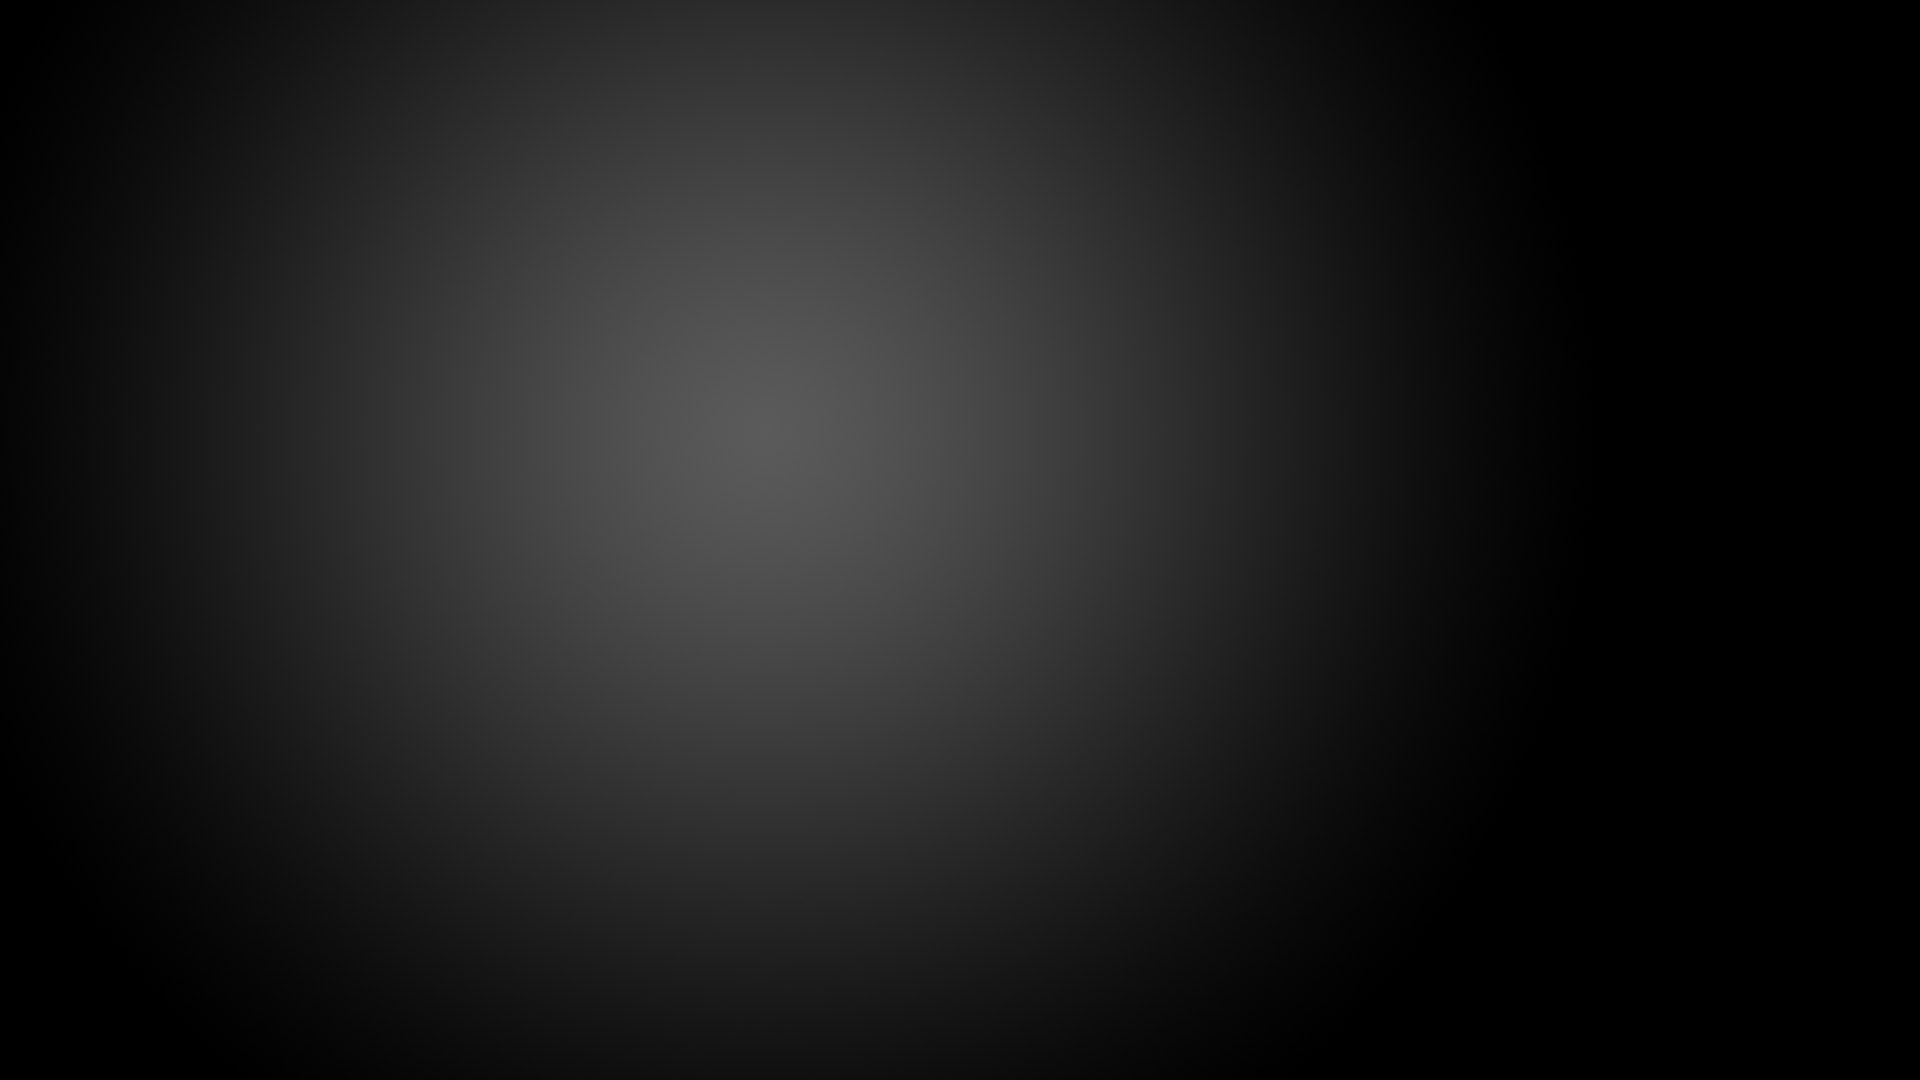
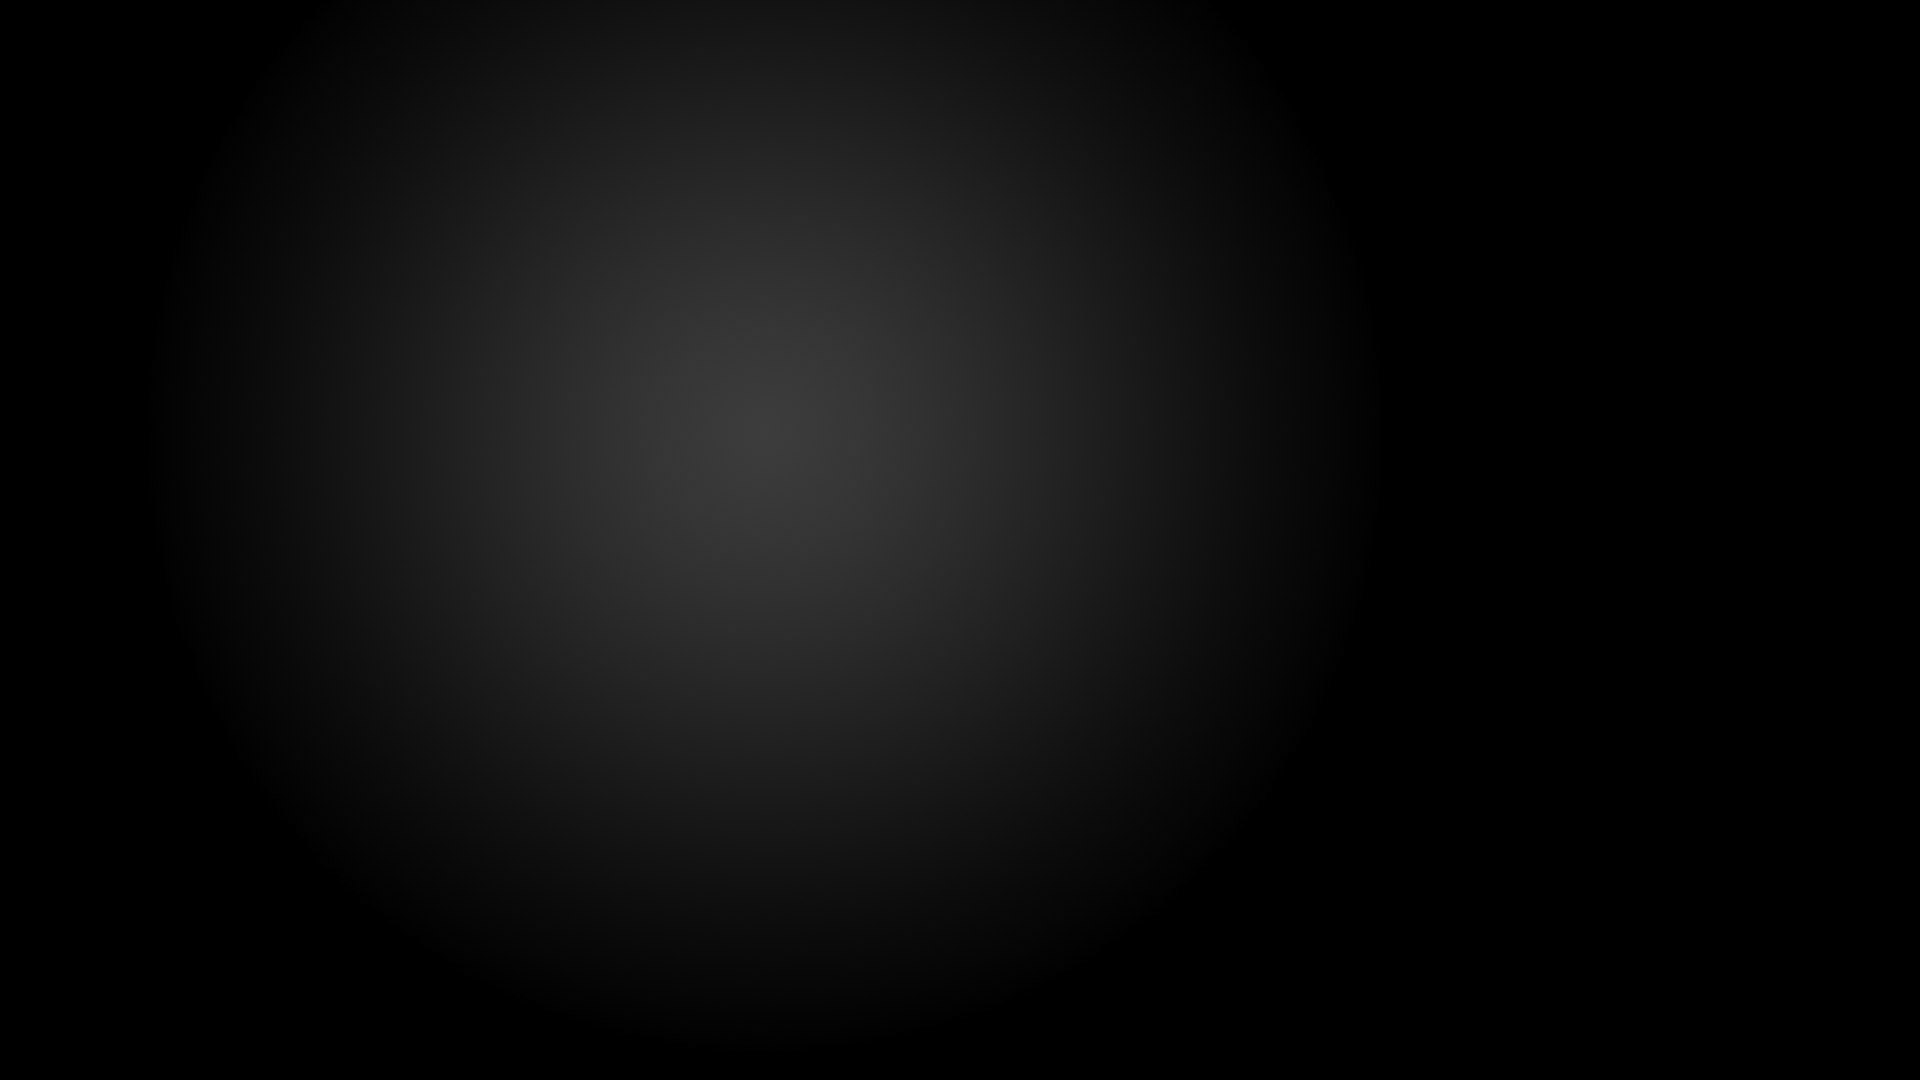
feat: support repeat setting with mpv player

Changed region(s): [[0.1562, 0.0, 0.625, 0.7944]]

diff --git a/index.js b/index.js
@@ -305,12 +305,15 @@ io.on('connection', function(socket) {
     if(!iTunesEnabled)
       return;
        
-    itunes.setRepeat(msg.repeat);
+    if(settings.mpv) {
+      mpv.setRepeat(msg.repeat);
+      state.repeat = mpv.repeat;
+      io.sockets.emit('state', state);
+    } else {
+      itunes.setRepeat(msg.repeat);
+    }
     if(settings.hqp) {
       hqp.repeat = msg.repeat;
-    }
-    if(settings.mpv) {
-      mpv.repeat = msg.repeat;
     }
   });
 
@@ -776,9 +779,10 @@ function getState() {
       rsp.sampleRate  = settings.hqp ? hqp.sampleRate : mpv.sampleRate;
       rsp.id_low      = settings.hqp ? hqp.id_low : mpv.id_low;
       rsp.id_high     = settings.hqp ? hqp.id_high : mpv.id_high;
+      rsp.repeat      = settings.hqp ? hqp.repeat : mpv.repeat;
     }
 
-    if(state.state != rsp.state || state.position != rsp.position || newPosSet) {
+    if(state.state != rsp.state || state.position != rsp.position || state.repeat != rsp.repeat || newPosSet) {
       const oldPos = state.position;      
       const oldVol = state.volume;
 
@@ -1042,7 +1046,7 @@ function setVolume(vol, force) {
     }
     io.sockets.emit('state', state);
     io.sockets.emit('volume', vol);
-    execFile('nircmdc.exe', ["setappvolume", "Shairport4wx64.exe", vol / 500], {}, function(err, stdout, stderr) {});
+    //execFile('nircmdc.exe', ["setappvolume", "Shairport4wx64.exe", vol / 500], {}, function(err, stdout, stderr) {});
     return;
   }
 
@@ -1242,7 +1246,12 @@ function checkAudioDevice() {
           });
 
           if(settings.startAlso)
-            exec('start /min "" "'+settings.startAlso+'"', {windowsHide: true}, function(err, stdout, stderr) {
+            exec(`start /min "" "${settings.startAlso.cmd}" ${settings.startAlso.args}`, {windowsHide: true}, function(err, stdout, stderr) {
+              if(err) console.error(`Error starting ${settings.startAlso}:`, err);
+            });
+          if(settings.startAlso2)
+            exec(`start /min "" "${settings.startAlso2.cmd}" ${settings.startAlso2.args}`, {windowsHide: true}, function(err, stdout, stderr) {
+              if(err) console.error(`Error starting ${settings.startAlso2}:`, err);
             });
 
           setTimeout(function(){
@@ -1333,11 +1342,13 @@ function checkAudioDevice() {
       console.log('close iTunes');
 			execFile('nircmdc.exe', ['win', 'close', 'class', 'iTunes'], {}, function(err, stdout, stderr) {});
 
-      if(settings.killAlso)
-        execFile('nircmdc.exe', ['killprocess', settings.killAlso], {}, function(err, stdout, stderr) {});
-
       mpv.quit();
       hqp.quit();
+
+      if(settings.killAlso)
+        execFile('nircmdc.exe', ['killprocess', settings.killAlso], {}, function(err, stdout, stderr) {});
+      if(settings.killAlso2)
+        execFile('nircmdc.exe', ['killprocess', settings.killAlso2], {}, function(err, stdout, stderr) {});
 
       continueAfterMute = false;
       audioDeviceState.state = newState;
@@ -1483,11 +1494,12 @@ function checkShairPort4W() {
     lastREPLAYGAIN_ALBUM_GAIN = undefined;
     
     if(settings.hqp) {
-      hqp.setSampleRate(44100);
+      hqp.setSampleRate(settings.shairportSamplerate);
       state.sampleRate = hqp.sampleRate;
       io.sockets.emit('state', state);
     } else if(settings.mpv) {
-      mpv.setSampleRate(44100);
+      mpv.stop();
+      mpv.setSampleRate(settings.shairportSamplerate);
       state.sampleRate = mpv.sampleRate;
       io.sockets.emit('state', state);
     }
@@ -1526,8 +1538,6 @@ function checkShairPort4W() {
     }
 
     lastAirPlaySongStamp = undefined;
-
-    console.log(`AirPlay stopped`);
 
     io.sockets.emit('track', {name: 0});
   }

diff --git a/mpv_player.js b/mpv_player.js
@@ -25,6 +25,23 @@ exports.mode = "";
 let idleState, changingSampleRate;
 
 //---------------------------------------------------------------------------------------
+exports.setRepeat = function(repeat) {
+  repeat = Number(repeat);
+  if(!Number.isInteger(repeat) || repeat < 0 || repeat > 2) {
+    return;
+  }
+
+  exports.repeat = repeat;
+  if(!mpvPlayer) {
+    return;
+  }
+
+  // 0 = off, 1 = repeat current track, 2 = repeat the active playlist.
+  mpvPlayer.setProperty('loop-file', repeat === 1 ? 'inf' : 'no');
+  mpvPlayer.setProperty('loop-playlist', repeat === 2 ? 'inf' : 'no');
+};
+
+//---------------------------------------------------------------------------------------
 function sleep(ms) {
   return new Promise((resolve, reject)=>{
 
@@ -290,14 +307,17 @@ exports.active = function() {
 
 //---------------------------------------------------------------------------------------
 exports.play = function() {
-  console.log("mpv play");
   mpvPlayer.resume();
 };
 
 //---------------------------------------------------------------------------------------
 exports.pause = function() {
-  console.log("mpv pause");
   mpvPlayer.pause();
+};
+
+//---------------------------------------------------------------------------------------
+exports.stop = function() {
+  mpvPlayer.stop();
 };
 
 //---------------------------------------------------------------------------------------

diff --git a/public/index.html b/public/index.html
@@ -11,7 +11,7 @@
     <link rel="apple-touch-startup-image" href="img/startup.png"   media="(device-width: 320px) and (device-height: 480px) and (-webkit-device-pixel-ratio: 1)">
     <link rel="apple-touch-startup-image" href="img/startupR.png"  media="(device-width: 320px) and (device-height: 480px) and (-webkit-device-pixel-ratio: 2)">
     <link rel="apple-touch-startup-image" href="img/startup5R.png" media="(device-width: 320px) and (device-height: 568px) and (-webkit-device-pixel-ratio: 2)">
-    <link rel="stylesheet" type="text/css" href="css/my.css">
+    <link rel="stylesheet" type="text/css" href="css/my.css?v=2">
     <title>Remote Pro</title>
   </head>
   <body class="darkBackground" style="margin:0; position:fixed; overflow:hidden; font-family:Arial;" onMouseUp="endVolume(false); endPosition(false);" onTouchEnd="endVolume(true); endPosition(true);">

diff --git a/public/css/my.css b/public/css/my.css
@@ -108,7 +108,6 @@
   .imgArtwork {
     top:170px;
     width:95%;
-    -webkit-filter: contrast(100%) brightness(100%) saturate(100%);
   }
   
   .player_pos_left {
@@ -179,7 +178,6 @@
   
   .imgArtwork {
     top:130px;
-    -webkit-filter: contrast(96%) brightness(102%) saturate(75%);
   }
   
   .player_pos_left {
@@ -267,8 +265,8 @@
 
 .volume-indicator {
   position: relative;
-  left:-250px;
-  top:650px;
+  left:-200px;
+  top:600px;
   width: 150px;
   height: 150px;
   background: black;
@@ -276,7 +274,7 @@
   display: flex;
   justify-content: center;
   align-items: center;
-  box-shadow: 0 0 15px rgba(255, 255, 255, 0.2);
+  box-shadow: 0 0 15px rgba(0, 0, 0, 1.0);
   overflow: hidden;
 }
 

diff --git a/README.md b/README.md
@@ -53,7 +53,7 @@ The `mpvResampleFilter` setting controls the audio resampling filters applied vi
 The default uses the SWR resampler with a Blackman-Nutall window:
 
 ```
-osf=s32:resampler=swr:filter_size=128:resample_cutoff=0.70:filter_type=blackman_nuttall:exact_rational=1
+resampler=swr:filter_size=128:resample_cutoff=0.70:filter_type=blackman_nuttall:exact_rational=1
 ```
 
 Alternative configurations (based on HQPlayer filter characteristics) are documented below. To use one, replace the value of `mpvResampleFilter` in `settings.json`.
@@ -67,7 +67,7 @@ Like HQPlayer Sinc-L. Uses the SOX resampler with strict linear phase and a shar
 - `stopband_begin=100` — Forces an extremely sharp cut-off transition at Nyquist.
 
 ```
-osf=s32:resampler=soxr:precision=32:passband_end=99:stopband_begin=100:phase=50
+resampler=soxr:precision=32:passband_end=99:stopband_begin=100:phase=50
 ```
 
 #### HQPlayer Sinc-Mx (less frequency extension, but more dynamic)
@@ -78,7 +78,7 @@ Like HQPlayer Sinc-Mx. Uses an intermediate phase that shifts energy to post-rin
 - `passband_end=95` & `stopband_begin=105` — Relaxes the transition band slightly to allow a smoother, more natural time-domain decay (less ringing energy overall).
 
 ```
-osf=s32:resampler=soxr:precision=32:passband_end=95:stopband_begin=105:phase=25
+resampler=soxr:precision=32:passband_end=95:stopband_begin=105:phase=25
 ```
 
 #### NOS-like dynamic with SOX (minimum phase)
@@ -91,7 +91,7 @@ NOS-like dynamics using the SOX resampler. Eliminates pre-ringing while maintain
 - `cheby=1` — Enables a Chebyshev windowing function which allows a tiny, ultra-smooth ripple in exchange for an even softer, rounder high-frequency roll-off. This guarantees zero harshness.
 
 ```
-osf=s32:resampler=soxr:precision=32:phase=0:passband_end=73:stopband_begin=125:cheby=1
+resampler=soxr:precision=32:phase=0:passband_end=73:stopband_begin=125:cheby=1
 ```
 
 #### NOS dynamic with SWR (default)
@@ -103,7 +103,7 @@ NOS-like dynamics using the SWR resampler with 64-bit precision and less post-ri
 - `filter_type=blackman_nutall` — Provides exceptional stopband rejection (-98 dB attenuation on first side-lobe) while maintaining a gentle, natural transition slope without high-frequency harshness. (Note: SOX uses Kaiser windowing, which creates sharp, steep cuts.)
 
 ```
-osf=s32:resampler=swr:filter_size=128:resample_cutoff=0.70:filter_type=blackman_nuttall:exact_rational=1
+resampler=swr:filter_size=128:resample_cutoff=0.70:filter_type=blackman_nuttall:exact_rational=1
 ```
 
 ### Volume Control
